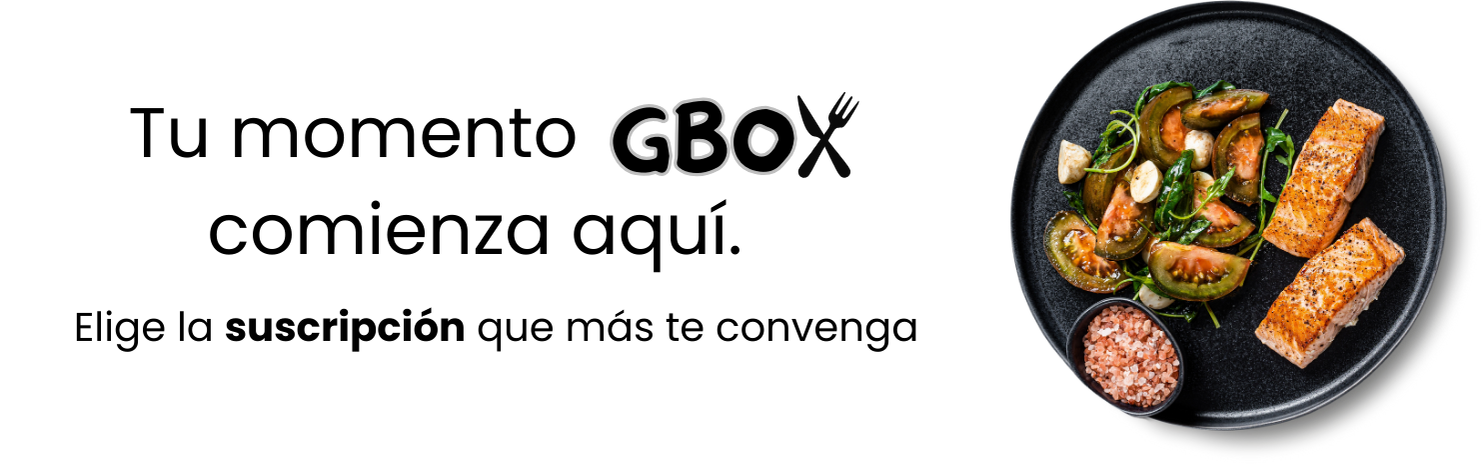
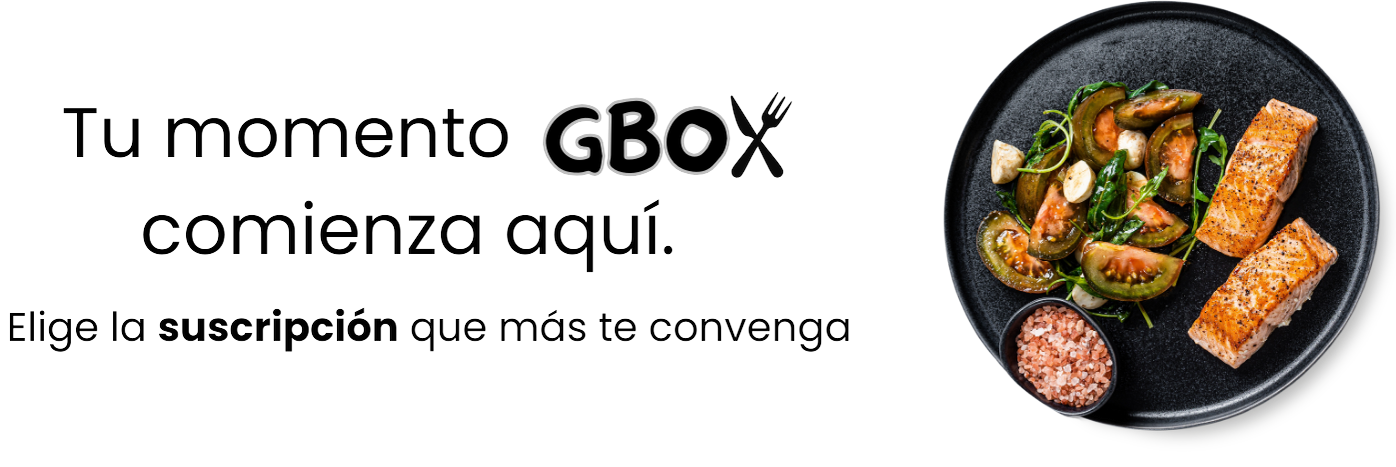
modificando el responsive de pagina de suscripcion

diff --git a/styles/stylesuscripcion.css b/styles/stylesuscripcion.css
@@ -38,7 +38,12 @@ body, main {
     width: 100%;
     height: auto;
     object-fit: cover;
-    border-radius: 8px;
+}
+
+@media(max-width:672px){
+    .hero-content {
+        padding: 1rem 0.6rem;
+    }
 }
 
 .Suscripcion {
@@ -53,13 +58,11 @@ body, main {
 }
 
 /* Ajuste para pantallas más grandes (computadoras) */
-@media (min-width: 920px) {
+@media (min-width: 1050px) {
     .Suscripcion {
         grid-template-columns: repeat(3, 1fr);
-        /* Solo 2 columnas en pantallas grandes */
+        /* Solo 3 columnas en pantallas grandes */
         max-width: 90%;
-        background-color: #fffef4;
-
     }
 }
 
@@ -116,15 +119,11 @@ body, main {
     max-width: 100%;
     margin: 0 auto;
     overflow: hidden;
-
-
 }
 
 /* Lista  */
 .objeto ul{
     list-style-type: disc;
-    padding: 12px;
-    margin: 10px 0;
 }
 
 .Texto-Objeto li{
@@ -141,14 +140,14 @@ body, main {
     /* Opción: Añade negrita para resaltar */
 }
 
-.imagen-contenedor img {
-    max-width: 100%;
-    /* Asegura que la imagen no exceda el ancho del contenedor */
-    height: auto;
-    /* Mantiene la proporción de la imagen */
-    display: block;
-    /* Evita el espacio extra debajo de la imagen */
-
-
+.imagen-contenedor {
+    padding-bottom: 15px;
+    img {
+        max-width: 100%;
+        /* Asegura que la imagen no exceda el ancho del contenedor */
+        height: auto;
+        /* Mantiene la proporción de la imagen */
+        display: block;
+    }
 }
 
